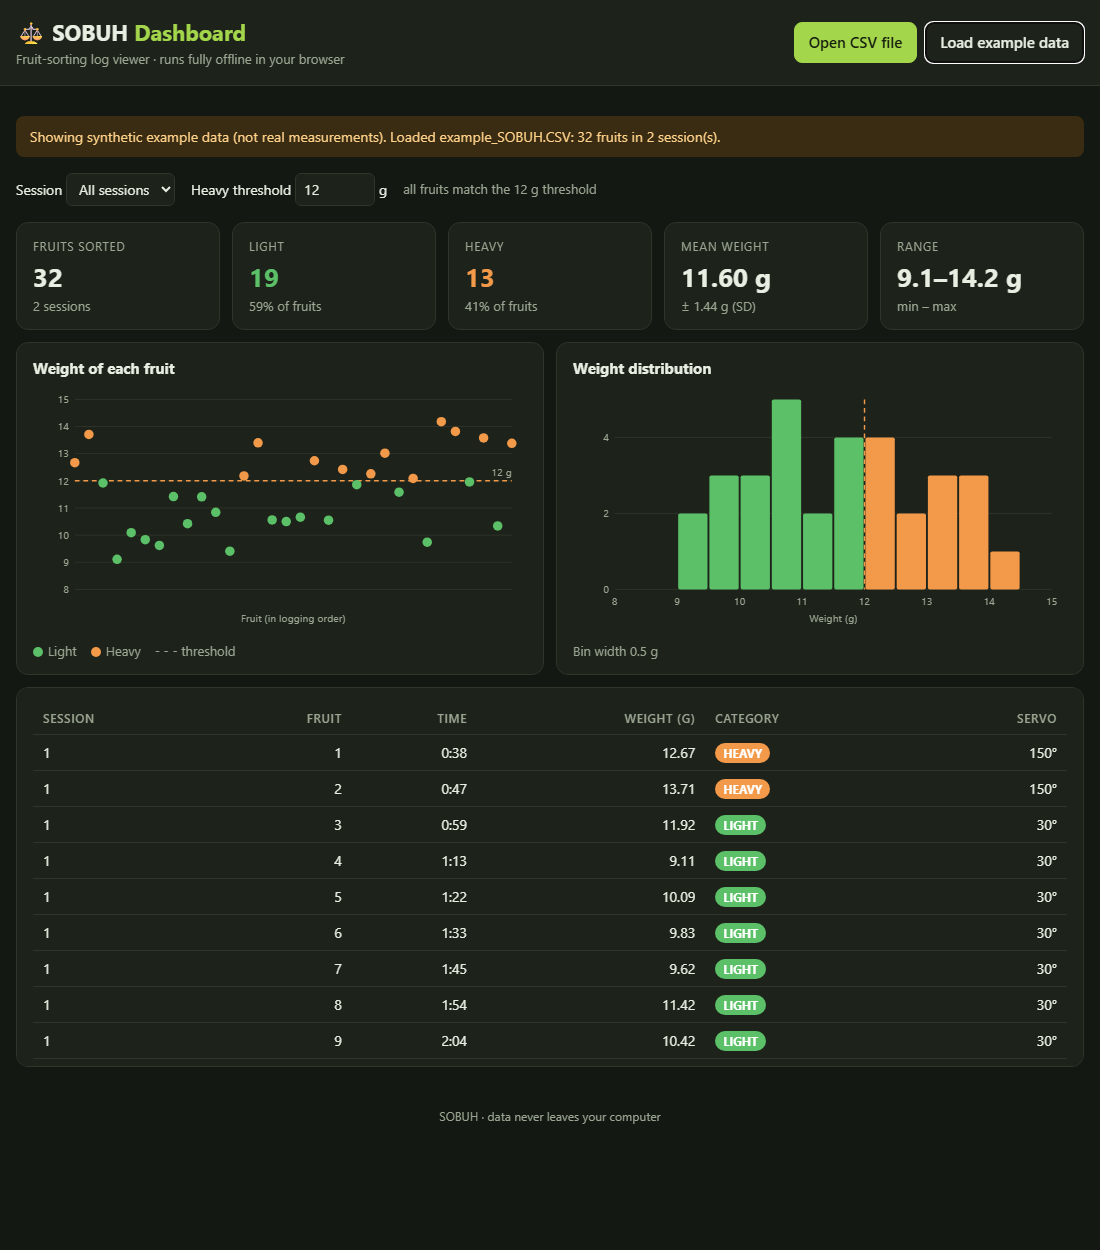
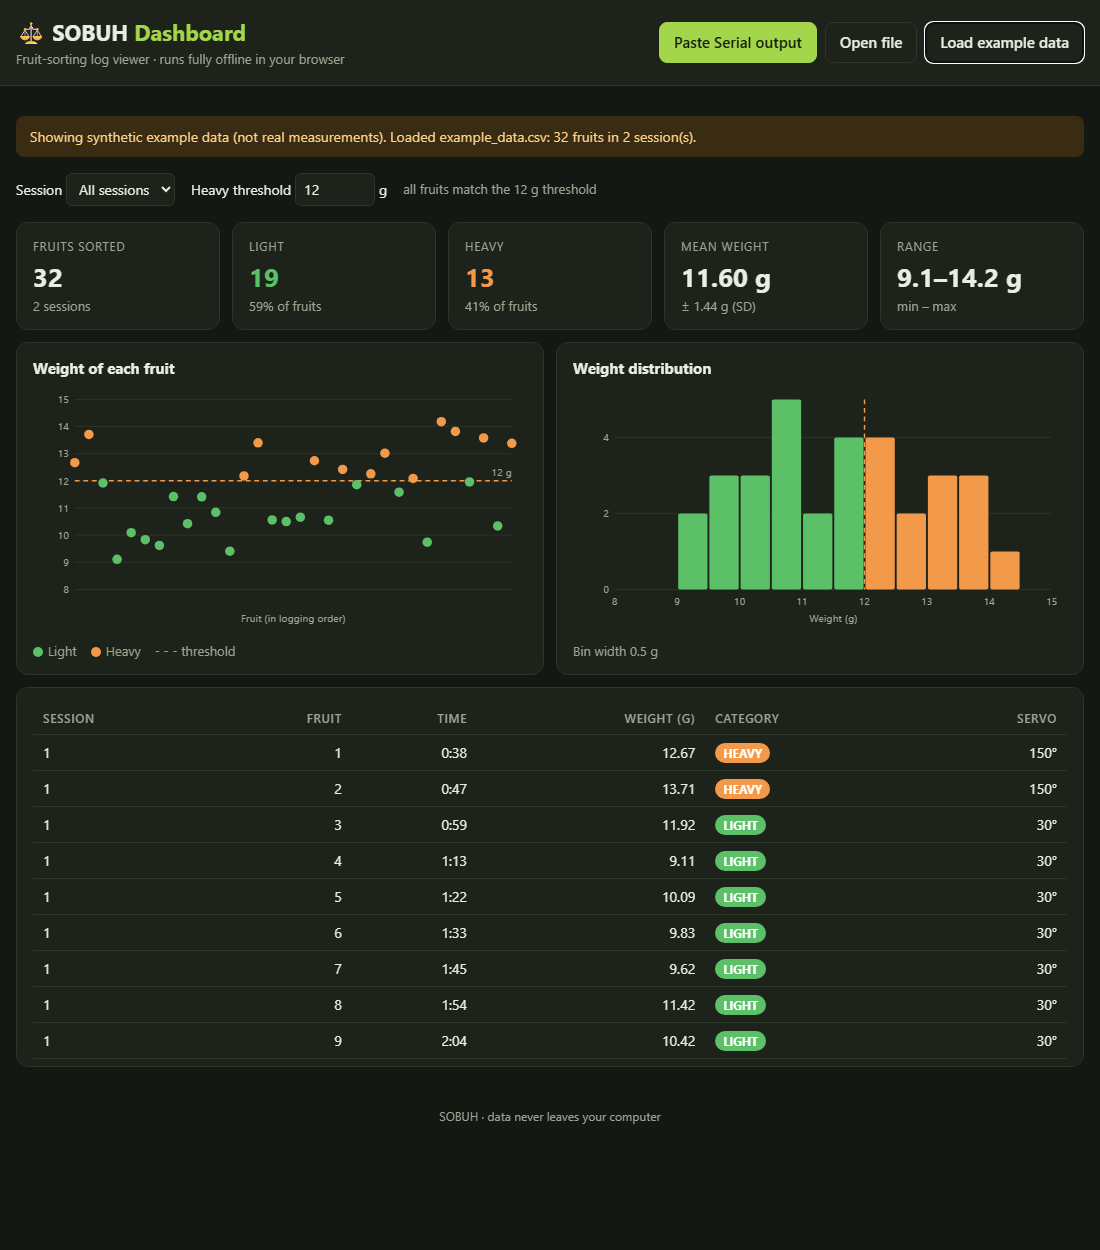
Replace SD-card logging with Serial data output
The SD module was never tried on the prototype, so the sketch now
prints one "DATA," line per sorted fruit to the Serial Monitor instead.
The dashboard accepts pasted Serial Monitor output (timestamps and other
lines are ignored) as well as .csv/.txt files. README updated.

Changed region(s): [[0.5873, 0.0, 0.8345, 0.0624], [0.4636, 0.0936, 0.6491, 0.1248]]

diff --git a/dashboard/index.html b/dashboard/index.html
@@ -37,6 +37,9 @@
   .controls { display: flex; flex-wrap: wrap; gap: 16px; align-items: center; margin: 16px 0; font-size: 14px; }
   select, input[type=number] { font: inherit; padding: 5px 8px; border-radius: 6px; border: 1px solid var(--line); background: var(--panel); color: var(--ink); }
   input[type=number] { width: 80px; }
+  textarea { width: 100%; font: 13px/1.4 Consolas, "Courier New", monospace; padding: 10px; border-radius: 8px;
+             border: 1px solid var(--line); background: var(--bg); color: var(--ink); resize: vertical; }
+  kbd { font: 12px Consolas, monospace; padding: 1px 5px; border: 1px solid var(--line); border-radius: 4px; }
   .cards { display: grid; grid-template-columns: repeat(auto-fit, minmax(160px, 1fr)); gap: 12px; }
   .card { background: var(--panel); border: 1px solid var(--line); border-radius: 12px; padding: 14px 16px; }
   .card .label { color: var(--muted); font-size: 12px; text-transform: uppercase; letter-spacing: .06em; }
@@ -68,7 +71,7 @@
 </style>
 </head>
 <body>
-<div class="drop">Drop SOBUH.CSV here</div>
+<div class="drop">Drop a .csv or .txt file here</div>
 <header>
   <div class="wrap top">
     <div>
@@ -76,8 +79,9 @@
       <div class="sub">Fruit-sorting log viewer · runs fully offline in your browser</div>
     </div>
     <div class="actions">
-      <label class="btn primary" for="file">Open CSV file</label>
-      <input id="file" type="file" accept=".csv,text/csv">
+      <button id="pasteBtn" class="btn primary" type="button">Paste Serial output</button>
+      <label class="btn" for="file">Open file</label>
+      <input id="file" type="file" accept=".csv,.txt,text/csv,text/plain">
       <button id="example" type="button">Load example data</button>
     </div>
   </div>
@@ -86,14 +90,25 @@
 <main class="wrap">
   <div id="info" class="info" hidden></div>
 
+  <section id="pastePanel" class="panel" style="margin-top:14px" hidden>
+    <h2>Paste the Serial Monitor output</h2>
+    <p class="sub">In the Arduino IDE Serial Monitor: click inside the output, press <kbd>Ctrl</kbd>+<kbd>A</kbd> then <kbd>Ctrl</kbd>+<kbd>C</kbd>, and paste it below. Only lines containing <code>DATA,</code> are used; everything else is ignored.</p>
+    <textarea id="pasteBox" rows="8" spellcheck="false" placeholder="DATA,1,1,38,12.67,HEAVY,150&#10;DATA,1,2,47,10.53,LIGHT,30&#10;..."></textarea>
+    <div class="actions" style="margin-top:10px">
+      <button id="pasteGo" class="btn primary" type="button">Show data</button>
+      <button id="pasteCancel" type="button">Cancel</button>
+    </div>
+  </section>
+
   <section id="empty" class="empty">
     <h2>No data loaded yet</h2>
-    <p>Open the log file written by the sorter, or try the example data.</p>
+    <p>Load the data printed by the sorter, or try the example data.</p>
     <ol>
-      <li>Power off the sorter and take out the microSD card.</li>
-      <li>Insert the card into your computer.</li>
-      <li>Click <b>Open CSV file</b> and choose <code>SOBUH.CSV</code>, or drag the file onto this page.</li>
+      <li>Connect the sorter to your computer and open the Arduino IDE <b>Serial Monitor</b> at 9600 baud.</li>
+      <li>Sort your fruits. Every fruit prints a line starting with <code>DATA,</code>.</li>
+      <li>Copy the whole Serial Monitor output, click <b>Paste Serial output</b>, and paste it.</li>
     </ol>
+    <p class="sub">You can also save the output as a <code>.txt</code> or <code>.csv</code> file and open it with <b>Open file</b>.</p>
   </section>
 
   <section id="view" hidden>
@@ -176,14 +191,20 @@ const NS = "http://www.w3.org/2000/svg";
 let data = [];
 
 // ---------- CSV parsing ----------
+const COLUMNS = ["session", "fruit", "uptime_s", "weight_g", "category", "servo_deg"];
+
 function parseCsv(text) {
-  const lines = text.replace(/^/, "").split(/\r?\n/).map((l) => l.trim()).filter(Boolean);
-  if (!lines.length) throw new Error("The file is empty.");
+  let lines = text.replace(/^\uFEFF/, "").split(/\r?\n/).map((l) => l.trim()).filter(Boolean);
+  if (!lines.length) throw new Error("No text found.");
+  // Serial Monitor output: keep only "DATA," lines (an IDE timestamp may precede them).
+  const dataLines = lines.filter((l) => l.includes("DATA,")).map((l) => l.slice(l.indexOf("DATA,") + 5).trim());
+  if (dataLines.length) {
+    lines = [COLUMNS.join(","), ...dataLines.filter((l) => !l.toLowerCase().startsWith("session"))];
+  }
   const head = lines[0].split(",").map((h) => h.trim().toLowerCase());
-  const need = ["session", "fruit", "uptime_s", "weight_g", "category", "servo_deg"];
-  const missing = need.filter((n) => !head.includes(n));
-  if (missing.length) throw new Error("Not a SOBUH log: missing column(s) " + missing.join(", ") + ".");
-  const idx = Object.fromEntries(need.map((n) => [n, head.indexOf(n)]));
+  const missing = COLUMNS.filter((n) => !head.includes(n));
+  if (missing.length) throw new Error("No SOBUH data found. Paste the Serial Monitor output (lines starting with DATA,) or open a CSV with the columns " + COLUMNS.join(", ") + ".");
+  const idx = Object.fromEntries(COLUMNS.map((n) => [n, head.indexOf(n)]));
   const rows = [];
   for (const line of lines.slice(1)) {
     const c = line.split(",");
@@ -197,7 +218,7 @@ function parseCsv(text) {
     };
     if (Number.isFinite(row.weight) && Number.isFinite(row.session)) rows.push(row);
   }
-  if (!rows.length) throw new Error("No data rows found.");
+  if (!rows.length) throw new Error("No fruit data rows found yet. Sort a few fruits first.");
   return rows;
 }
 
@@ -206,7 +227,7 @@ function load(text, label, isExample) {
     data = parseCsv(text);
   } catch (err) {
     showInfo(err.message, true);
-    return;
+    return false;
   }
   const sessions = [...new Set(data.map((r) => r.session))].sort((a, b) => a - b);
   const sel = $("session");
@@ -216,6 +237,7 @@ function load(text, label, isExample) {
   $("empty").hidden = true;
   $("view").hidden = false;
   render();
+  return true;
 }
 
 function showInfo(msg, warn) {
@@ -373,7 +395,12 @@ $("file").addEventListener("change", (e) => {
   if (f) f.text().then((t) => load(t, f.name, false));
   e.target.value = "";
 });
-$("example").addEventListener("click", () => load($("exampleCsv").textContent, "example_SOBUH.CSV", true));
+$("example").addEventListener("click", () => load($("exampleCsv").textContent, "example_data.csv", true));
+$("pasteBtn").addEventListener("click", () => { $("pastePanel").hidden = false; $("pasteBox").focus(); });
+$("pasteCancel").addEventListener("click", () => { $("pastePanel").hidden = true; });
+$("pasteGo").addEventListener("click", () => {
+  if (load($("pasteBox").value, "pasted Serial output", false)) $("pastePanel").hidden = true;
+});
 $("session").addEventListener("change", render);
 if (location.hash === "#example") $("example").click();  // e.g. index.html#example
 $("threshold").addEventListener("input", render);

diff --git a/README.md b/README.md
@@ -5,7 +5,7 @@
 **Weigh it. Sort it. Automatically.** 🍋
 
 An Arduino-based system that weighs each fruit with a **load cell + HX711**, uses a **servo** to push it into the right bin,<br>
-shows the weight live on a **16×2 I2C LCD**, and logs every fruit to a **microSD card**. A small offline **web dashboard** displays the log.
+shows the weight live on a **16×2 I2C LCD**, and prints a data line for every fruit over **Serial**. A small offline **web dashboard** turns that output into statistics and charts.
 
 ![Arduino](https://img.shields.io/badge/Arduino-Uno%20R3-00979D?logo=arduino&logoColor=white)
 ![C++](https://img.shields.io/badge/language-C%2B%2B-00599C?logo=cplusplus&logoColor=white)
@@ -18,7 +18,7 @@ shows the weight live on a **16×2 I2C LCD**, and logs every fruit to a **microS
 [Wiring](#-wiring) •
 [Getting started](#-getting-started) •
 [Calibration](#%EF%B8%8F-calibration) •
-[Data logging](#-data-logging) •
+[Data output](#-data-output) •
 [Dashboard](#-dashboard) •
 [Results](#-results)
 
@@ -29,10 +29,10 @@ shows the weight live on a **16×2 I2C LCD**, and logs every fruit to a **microS
 </div>
 
 > [!NOTE]
-> **About this project.** SOBUH (*Sistem Sortir Buah* — fruit sorting system) was built in **2024** as the final project of the *Instrumentation and Control* lab course at IPB University. In **2026** I turned it into this repository with the help of **Claude** (Anthropic's AI assistant): the original sketch is preserved in [`original/`](original/), and an improved version with the **same sorting logic** lives in [`sobuh/`](sobuh/). SD-card logging was planned back in 2024 and has now been implemented, along with the [dashboard](dashboard/).
+> **About this project.** SOBUH (*Sistem Sortir Buah* — fruit sorting system) was built in **2024** as the final project of the *Instrumentation and Control* lab course at IPB University. In **2026** I turned it into this repository with the help of **Claude** (Anthropic's AI assistant): the original sketch is preserved in [`original/`](original/), and an improved version with the **same sorting logic** lives in [`sobuh/`](sobuh/). A simple offline [dashboard](dashboard/) was added to view the recorded data.
 
 > [!WARNING]
-> The 2026 additions (improved sketch, SD logging, dashboard) have **not yet been tested on the physical hardware**. The dashboard was tested in a browser with example data. If you build it, please open an issue with your results.
+> The improved sketch has **not yet been tested on the physical hardware**. The original 2024 sketch is the one that ran on the prototype. The dashboard was tested in a browser with example data and simulated Serial Monitor output.
 
 ---
 
@@ -46,9 +46,9 @@ Sorting fruit by hand is slow, tiring and inconsistent. SOBUH is a low-cost proo
 - 🔀 **Automatic sorting** into *light* and *heavy* bins by a servo-driven deflector
 - 📟 **Live readout** of weight and category on a 16×2 I2C LCD
 - 🎯 **Two-point calibration** (tare + known mass) from the Serial Monitor, **saved to EEPROM**
-- ⌨ **Serial commands** to tare, recalibrate, edit the calibration factor or print the log
-- 💾 **SD-card logging:** one CSV row per sorted fruit (session, number, time, weight, category)
-- 📈 **Offline web dashboard:** open the CSV to see totals, charts and a table, with no install and no internet
+- ⌨ **Serial commands** to tare, recalibrate or edit the calibration factor
+- 🧾 **Data output:** one `DATA,` line per sorted fruit on the Serial Monitor (session, number, time, weight, category)
+- 📈 **Offline web dashboard:** paste the Serial Monitor output to see totals, charts and a table, with no install and no internet
 - 💸 **Cheap:** about **Rp 183,000** in parts, with styrofoam and a lunch box as the enclosure
 
 ---
@@ -57,7 +57,7 @@ Sorting fruit by hand is slow, tiring and inconsistent. SOBUH is a low-cost proo
 
 ```mermaid
 flowchart TD
-    A([Power on]) --> B[Init LCD, servo → 90°, SD card,<br/>HX711 tare after 2 s]
+    A([Power on]) --> B[Init LCD, servo → 90°,<br/>HX711 tare after 2 s]
     B --> C{Valid calibration<br/>factor in EEPROM?}
     C -- yes --> D[Load factor]
     C -- no --> E[Calibrate via Serial Monitor<br/>tare → known mass → save]
@@ -69,7 +69,7 @@ flowchart TD
     G -- "≥ 12 g" --> J[HEAVY<br/>servo 150°]
     H & I & J --> K[Show weight + category on LCD]
     I & J --> L{Weight stable<br/>for 1.5 s?}
-    L -- "yes, once per fruit" --> M[(Append row to<br/>SOBUH.CSV)]
+    L -- "yes, once per fruit" --> M[/Print DATA line<br/>to Serial/]
     K --> F
 ```
 
@@ -117,7 +117,6 @@ The 12 g boundary was chosen for the test fruit (key limes, *jeruk nipis*). Chan
 | 8 | Instant noodles 🍜 *(yes, it's in the original budget)* | 1 | 5,000 |
 | | **Total (2024 prototype)** | | **Rp 183,000** |
 
-**Added for data logging (2026):** a microSD card module (SPI, with an on-board 3.3 V regulator and level shifter) and a microSD card formatted as **FAT32**. These were not part of the original budget.
 
 **Mechanical parts:** styrofoam sheets, a plastic lunch box, hot glue and a cutter.
 
@@ -140,11 +139,7 @@ The 12 g boundary was chosen for the test fruit (key limes, *jeruk nipis*). Chan
 | LCD I2C **SDA** | Arduino **A4** | |
 | LCD I2C **SCL** | Arduino **A5** | |
 | LCD I2C **VCC / GND** | 5V / GND | I2C address `0x27` (try `0x3F` if blank) |
-| SD module **CS** | Arduino **D10** | `SD_CS_PIN` *(new)* |
-| SD module **MOSI / MISO / SCK** | Arduino **D11 / D12 / D13** | hardware SPI on the Uno *(new)* |
-| SD module **VCC / GND** | 5V / GND | use a module with a 3.3 V regulator *(new)* |
 
-<sub>The Fritzing diagram shows the original 2024 circuit, without the SD module.</sub>
 
 > [!TIP]
 > A servo can draw current spikes that make the HX711 reading jump. If you see noisy weights while the servo moves, power the servo from a separate 5 V supply (with a shared GND) or add a 470–1000 µF capacitor across its supply.
@@ -157,10 +152,9 @@ The 12 g boundary was chosen for the test fruit (key limes, *jeruk nipis*). Chan
 2. **Install the libraries** (*Tools → Manage Libraries…*):
    - **HX711_ADC** by Olav Kallhovd
    - **LiquidCrystal I2C** by Frank de Brabander
-   - **Servo**, **SD** and **SPI** (bundled with the IDE)
+   - **Servo** (bundled with the IDE)
 3. **Open** [`sobuh/sobuh.ino`](sobuh/sobuh.ino), select **Arduino Uno** and the right port, and **upload**.
 4. **Open the Serial Monitor** at **9600 baud**. On the first run there is no calibration stored yet, so follow the calibration steps below.
-5. *(Optional)* Insert a FAT32 microSD card before powering on to enable logging.
 
 ```text
 sobuh-fruit-sorter/
@@ -172,7 +166,7 @@ sobuh-fruit-sorter/
 │       └── sobuh_original.ino    # sketch exactly as in the 2024 report
 ├── dashboard/
 │   ├── index.html                # 📈 offline dashboard (open in a browser)
-│   └── example_SOBUH.CSV         # synthetic example log
+│   └── example_data.csv          # synthetic example data
 ├── docs/images/                  # wiring, 3D design, flowchart, photos, screenshots
 ├── LICENSE                       # MIT
 ├── THIRD_PARTY_NOTICES.md        # HX711_ADC (MIT) notice
@@ -198,27 +192,28 @@ Calibration converts the HX711's raw numbers into grams. You only need to do it 
 | `t` | Tare: set the current load as zero |
 | `r` | Run the full calibration again |
 | `c` | Type in a calibration factor manually |
-| `d` | Print the SD log file to the Serial Monitor |
 | `h` | Show help |
 
 ---
 
-## 💾 Data logging
+## 🧾 Data output
 
-With a microSD card inserted, SOBUH appends **one row per fruit** to `SOBUH.CSV`. A fruit is logged once its weight has been **stable for 1.5 s** (three readings within ±0.5 g). The next fruit is logged only after the platform has been emptied, so a fruit resting on the scale is never counted twice. Without an SD card, sorting works exactly the same and the LCD shows `noSD`.
+Every fruit is recorded as **one line on the Serial Monitor**, once its weight has been **stable for 1.5 s** (three readings within ±0.5 g). The next fruit is recorded only after the platform has been emptied, so a fruit resting on the scale is never counted twice.
 
-File format (illustrative values):
-
-```csv
-session,fruit,uptime_s,weight_g,category,servo_deg
-3,1,42,12.11,HEAVY,150
-3,2,55,10.53,LIGHT,30
+```text
+DATA,session,fruit,uptime_s,weight_g,category,servo_deg
+Weight: 12.08 g  -> servo 150
+DATA,3,1,42,12.11,HEAVY,150
+Weight: 0.01 g  -> servo 90
+DATA,3,2,55,10.53,LIGHT,30
 ```
 
-| Column | Meaning |
+<sub>Illustrative output. The <code>DATA,</code> prefix lets the dashboard pick these lines out of the regular <code>Weight:</code> messages.</sub>
+
+| Field | Meaning |
 |:--|:--|
 | `session` | Power-on counter stored in EEPROM, which increases at every start-up |
-| `fruit` | Fruit number within the session |
+| `fruit` | Fruit number within the session (also shown on the LCD as `#n`) |
 | `uptime_s` | Seconds since power-on. The Uno has no real-time clock, so there is no date or time of day |
 | `weight_g` | Stable weight in grams |
 | `category` | `LIGHT` or `HEAVY` |
@@ -237,16 +232,19 @@ session,fruit,uptime_s,weight_g,category,servo_deg
 
 A single HTML file, [`dashboard/index.html`](dashboard/index.html), that runs **completely offline** in your browser. Your data never leaves your computer.
 
-1. Take the microSD card out of the sorter and insert it into your computer.
-2. Double-click `dashboard/index.html` to open it in any modern browser.
-3. Click **Open CSV file** and choose `SOBUH.CSV`, or drag the file onto the page.
+1. Keep the sorter connected by USB and open the Arduino IDE **Serial Monitor** (9600 baud) while you sort.
+2. When you're done, click inside the Serial Monitor output and press <kbd>Ctrl</kbd>+<kbd>A</kbd>, <kbd>Ctrl</kbd>+<kbd>C</kbd>.
+3. Double-click `dashboard/index.html` to open it in any modern browser.
+4. Click **Paste Serial output**, paste, and press **Show data**.
+
+Only lines containing `DATA,` are used, and Serial Monitor timestamps are fine. You can also save the output as a `.txt`/`.csv` file and use **Open file**, or drag it onto the page.
 
 You get:
 - **Summary cards:** fruits sorted, light vs. heavy counts and shares, mean ± SD weight, and range
 - **Charts:** the weight of every fruit with the threshold line, and a weight histogram
 - **Session filter**, to view one power-on session or all of them
 - **What-if threshold:** change the threshold to see how many fruits would switch category
-- **Table** of every logged fruit
+- **Table** of every recorded fruit
 
 No CSV yet? Click **Load example data**, or open `index.html#example`.
 
@@ -271,15 +269,16 @@ Performance test with key limes, using the **12 g** boundary:
 
 - **Single-fruit, small-mass setup.** The prototype was tested with small fruit (~10–14 g) and a 3 g "empty" threshold. Heavier produce needs a load cell with a suitable capacity and new thresholds.
 - **No conveyor.** Fruit is placed by hand, and the servo only selects the bin.
-- **Sorting doesn't wait for a stable weight.** The servo follows every reading (only the *logging* waits for stability), so a fruit dropped onto the platform may be sorted mid-bounce.
-- **No real-time clock.** Log rows have an uptime, not a date or time of day.
-- **Tight memory.** The Uno has only 2 KB of RAM. The SD library uses a large share of it, so adding many more features may require an Arduino Mega or an ESP32.
+- **Sorting doesn't wait for a stable weight.** The servo follows every reading (only the *recording* waits for stability), so a fruit dropped onto the platform may be sorted mid-bounce.
+- **No real-time clock.** Data lines have an uptime, not a date or time of day.
+- **Needs a computer for data.** Data is only captured while the Serial Monitor is open; nothing is stored on the device.
 - **Small test set.** The four-sample test demonstrates the concept but does not measure accuracy statistically.
 
 ## 🗺 Ideas for future work
 
-- [x] Log every fruit to an **SD card** and view it in a **dashboard**
-- [ ] Use the stable weight for **sorting** too, not only for logging
+- [x] Output every fruit as data and view it in a **dashboard**
+- [ ] Store data on a **microSD card** module (planned in 2024) so no computer is needed
+- [ ] Use the stable weight for **sorting** too, not only for recording
 - [ ] Add an **RTC module** (e.g. DS3231) for real timestamps
 - [ ] Support **more than two grades** with a configurable threshold table
 - [ ] Add a **conveyor or chute** for continuous feeding
@@ -293,7 +292,7 @@ Performance test with key limes, using the **12 g** boundary:
 - **Team (Group 1, K3):** Syamsi Wirdiyan, Amalia Divie Soraya, Rizky Amelia
 - **Course:** Instrumentation and Control lab, Department of Mechanical and Biosystem Engineering, Faculty of Agricultural Engineering and Technology, IPB University (2024)
 - **Calibration routine:** adapted from the *Calibration* example of [HX711_ADC](https://github.com/olkal/HX711_ADC) by Olav Kallhovd (MIT)
-- **2026 repository, refactor, SD logging and dashboard:** prepared with the help of Claude (Anthropic's AI assistant)
+- **2026 repository, refactor and dashboard:** prepared with the help of Claude (Anthropic's AI assistant)
 
 ## 📄 License
 

diff --git a/original/README.md b/original/README.md
@@ -12,6 +12,6 @@ The recommended version is [`../sobuh/sobuh.ino`](../sobuh/sobuh.ino). It keeps 
 | The servo is commanded on every reading | The servo only moves when the target position changes |
 | LCD shows only the weight | LCD shows the weight **and** the category (LIGHT / HEAVY) |
 | Magic numbers spread through the code | Pins, thresholds, angles and timing are named constants at the top |
-| No data logging | Each sorted fruit is appended to `SOBUH.CSV` on a microSD card (planned in 2024, added in 2026) |
+| No data output | Each sorted fruit is printed as a `DATA,` line that the dashboard can read |
 
 The `calibrate()` and `changeSavedCalFactor()` functions in both versions are adapted from the *Calibration* example of the [HX711_ADC](https://github.com/olkal/HX711_ADC) library (MIT, © 2017 Olav Kallhovd).
